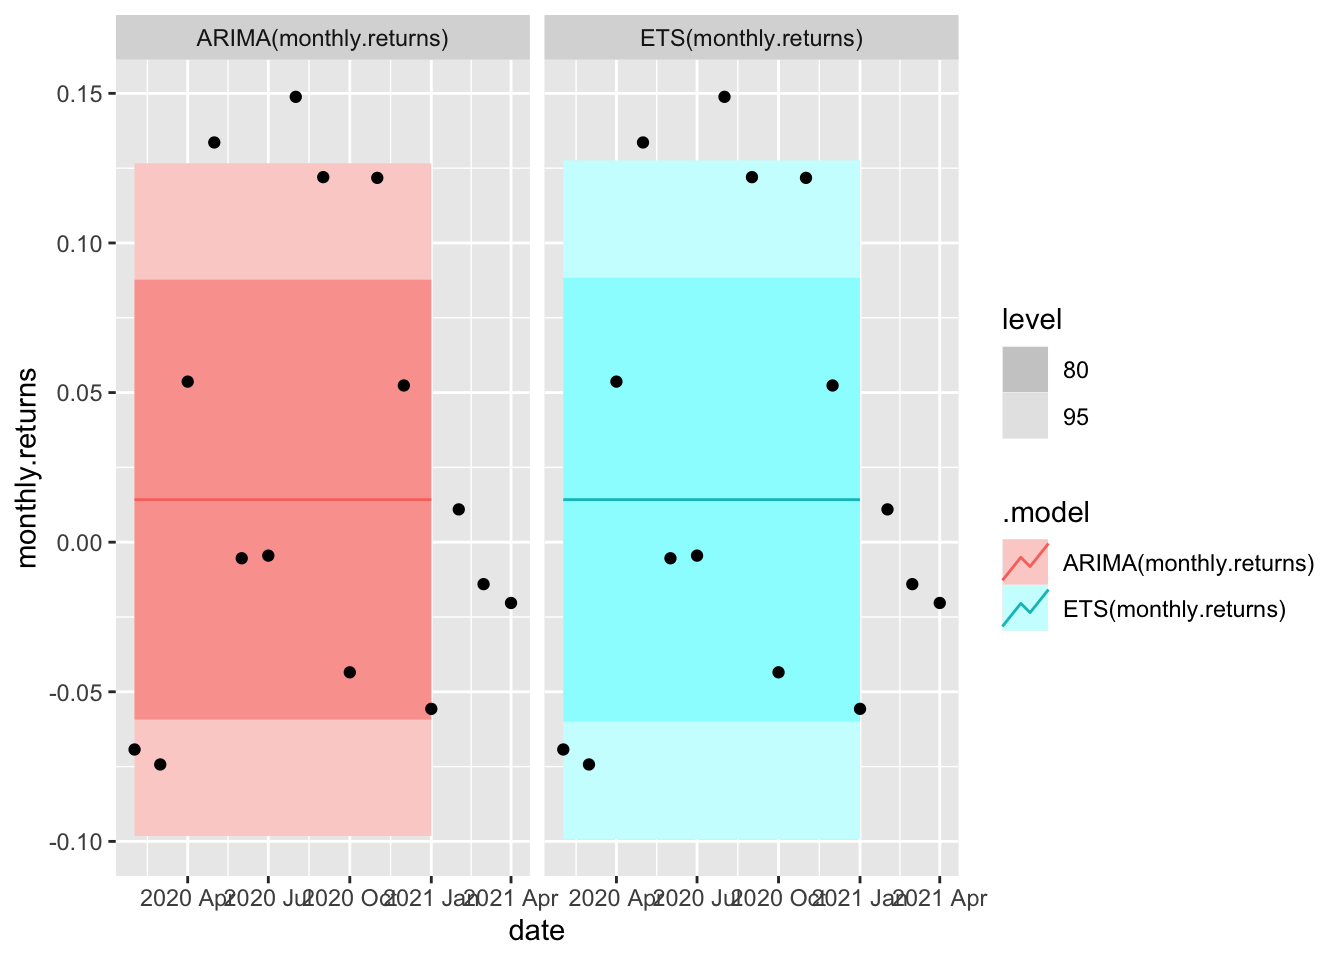
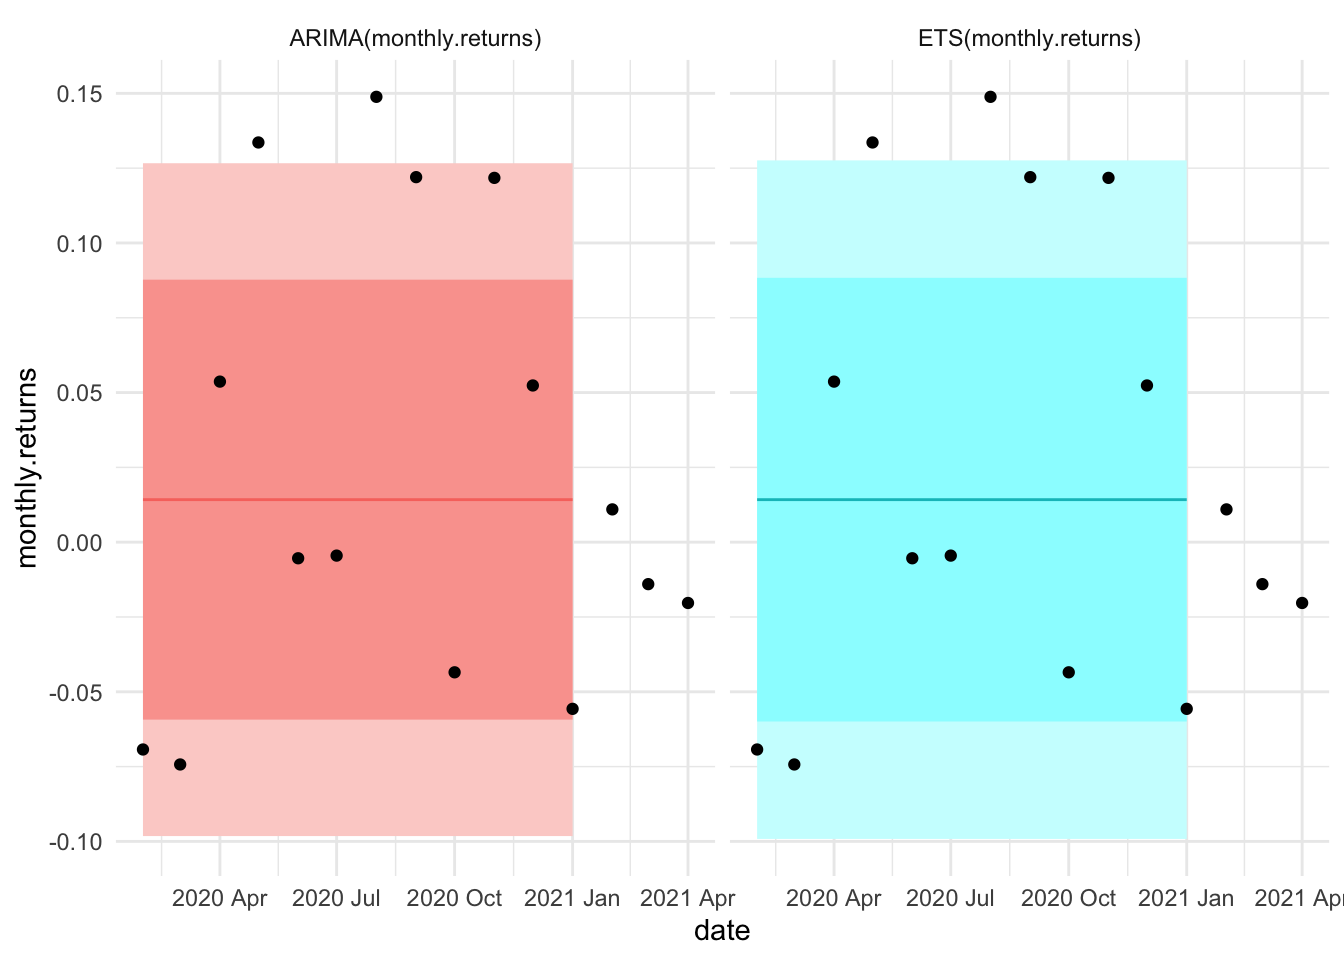
Update

diff --git a/content/post/2021-04-26-slider-is-a-magical-way-of-creating-moving-averages/index.html b/content/post/2021-04-26-slider-is-a-magical-way-of-creating-moving-averages/index.html
@@ -163,7 +163,7 @@ Nike.Mods %&gt;% forecast(h=12) %&gt;% accuracy(Nike.Data.Test)</code></pre>
 ## 1 ARIMA(monthly.retur… Test  0.0174 0.0828 0.0737  148.  148.   NaN   NaN 0.0130
 ## 2 ETS(monthly.returns) Test  0.0174 0.0828 0.0737  148.  148.   NaN   NaN 0.0130</code></pre>
 <p>A plot.</p>
-<pre class="r"><code>Nike.Mods %&gt;% forecast(h=12) %&gt;% autoplot() + geom_point(data=Nike.Data.Test, aes(x=date, y=monthly.returns)) + facet_wrap(vars(.model))</code></pre>
+<pre class="r"><code>Nike.Mods %&gt;% forecast(h=12) %&gt;% autoplot() + geom_point(data=Nike.Data.Test, aes(x=date, y=monthly.returns)) + facet_wrap(vars(.model)) + guides(level=FALSE, color=FALSE, fill=FALSE) + theme_minimal()</code></pre>
 <p><img src="{{< blogdown/postref >}}index_files/figure-html/unnamed-chunk-11-1.png" width="672" /></p>
 </div>
 <div id="three-month-trailing-averages" class="section level2">
